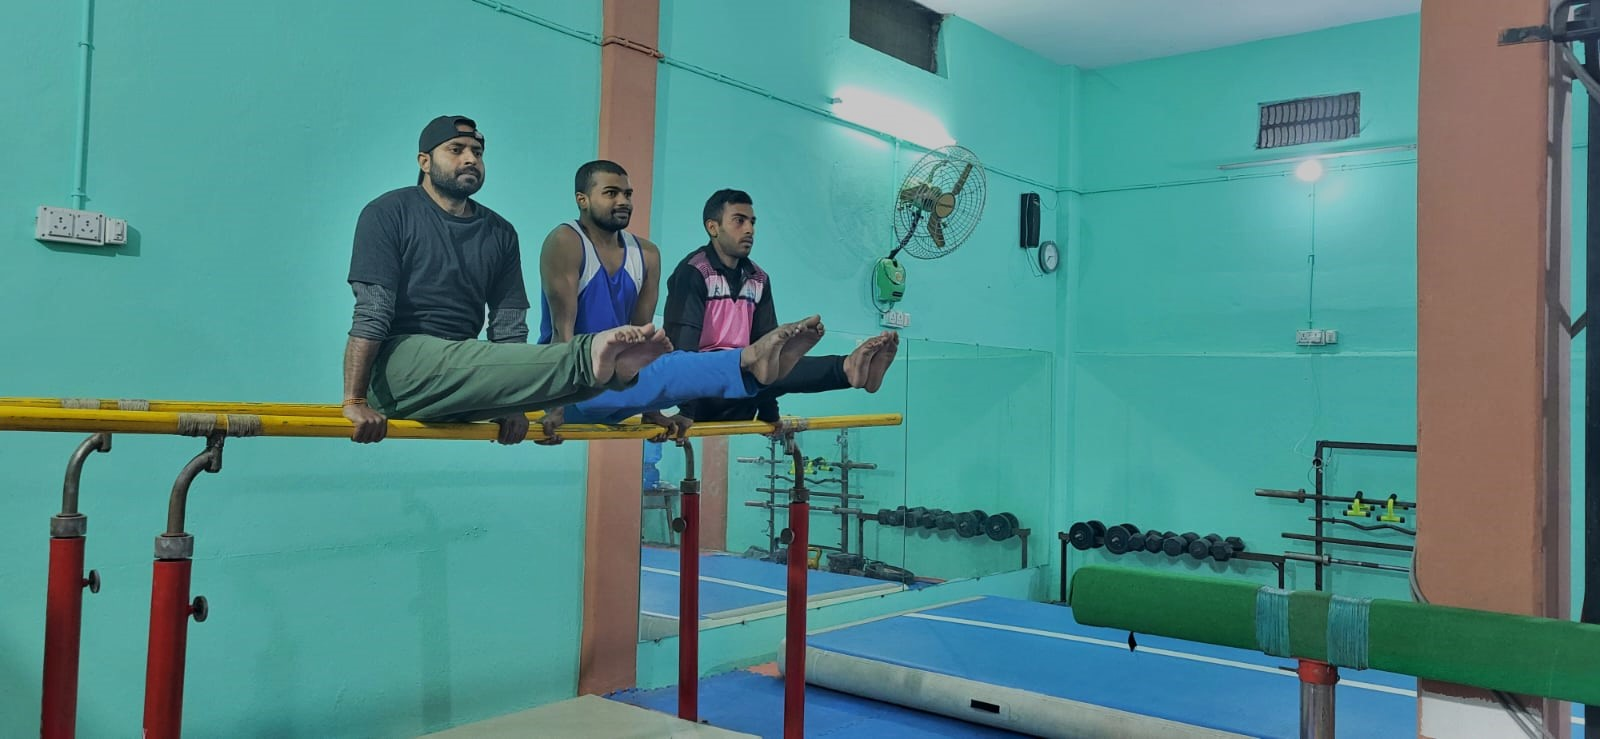
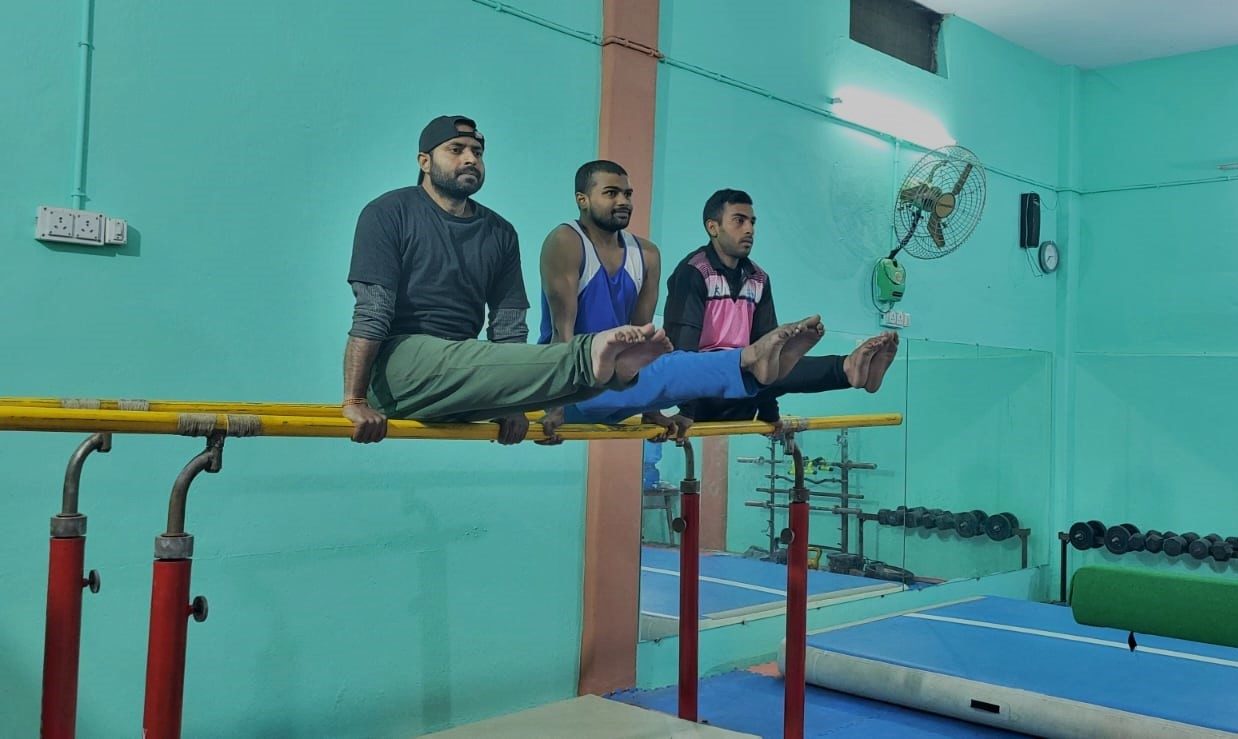
image resolutions changed

diff --git a/index.html b/index.html
@@ -82,6 +82,19 @@
         </div>
         </div>
       </div>
+
+      <div class="slider-item " style="background-image:url(images/kids1.jpg);">
+      	<div class="overlay"></div>
+        <div class="container">
+          <div class="row no-gutters slider-text js-fullheight align-items-center justify-content-center" data-scrollax-parent="true">
+          <div class="col-md-10 text ftco-animate text-center">
+            <h1 class="mb-4">Building healthier generations </h1>
+            <h3 class="subheading">Your Health is Our Top Priority with Comprehensive, Affordable medical.</h3>
+            <p><a href="#" class="btn btn-white btn-outline-white px-4 py-3 mt-3">View our works</a></p>
+          </div>
+        </div>
+        </div>
+      </div>
     </section>
 
     <section class="ftco-section bg-light">

diff --git a/css/style.css b/css/style.css
@@ -11046,6 +11046,7 @@ h5,
   .owl-carousel.home-slider .slider-item .slider-text {
     text-align: center;
   }
+  
 }
 .owl-carousel.home-slider .slider-item .slider-text .subheading {
   color: #000;
